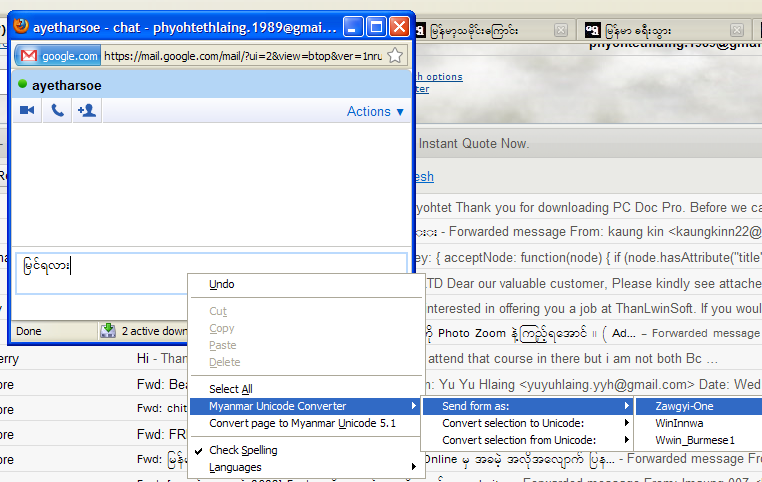
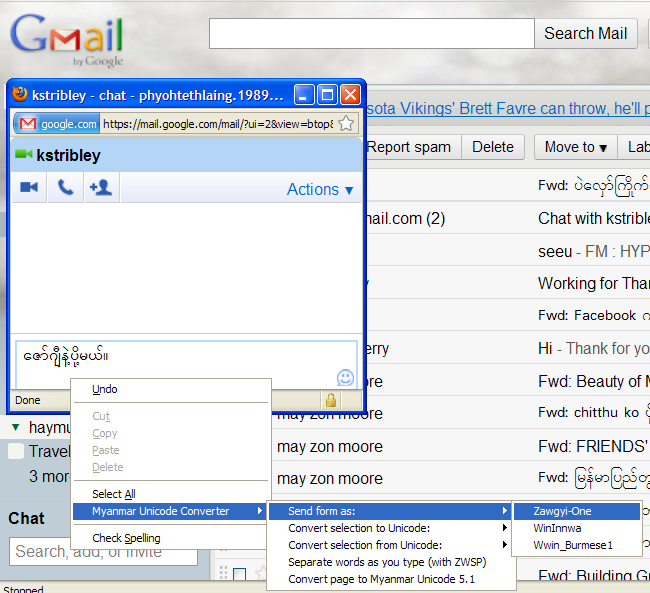
Update docs

diff --git a/firefox-myanmar-converter/docs/index.php b/firefox-myanmar-converter/docs/index.php
@@ -26,6 +26,10 @@ h5 { font-size: 12pt; }
   text-align: center;
 }
 
+p.centre img {
+    padding-bottom: 2em;
+}
+
 .enTranslation {
 	width: 45%;
 	display: inline-block;
@@ -79,7 +83,7 @@ If the wrong font is selected, then the Myanmar text will display wrongly.
 Unicode has many advantages over Zaw Gyi:
 </p>
 <p lang="my" class="myTranslation">
-web page အနေဖြင့် မည်သည့်ဖောင့်ဆိုသည်ကို ပြတ်သားစွာ မဖော်ပြနိုင်သောအခါ ဇော်ဂျီဖောင့် နှင့် ယူနီကုတ်ဖောင့် နှစ်မျိုးလုံးရှိနေခြင်းသည် ပြဿနာများကို ဖြစ်စေပါသည်။ မှားယွင်းသောဖောင့်ကို ရွေးချယ်မိခဲ့မည်ဆိုလျှင်ဖြင့် မြန်မာစာလုံးများ သည်လည်း မှားယွင်းစွာ ဖော်ပြနေပါလိမ့်မည်။ ယူနီကုတ်တွင် ဇော်ဂျီထက်သာလွန်သော အကျိုးကျေးဇူးများရှိပေသည်။
+ဇော်ဂျီဖောင့် နှင့် ယူနီကုတ်ဖောင့် နှစ်မျိုးလုံးရှိနေခြင်းသည် web page အနေဖြင့် မည်သည့်ဖောင့်ဆိုသည်ကို ပြတ်သားစွာ မဖော်ပြနိုင်သော ပြဿနာများကို ဖြစ်စေနိုင်ပါသည်။ မှားယွင်းသောဖောင့်ကို ရွေးချယ်မိခဲ့မည်ဆိုလျှင်ဖြင့် မြန်မာစာလုံးများ သည်လည်း မှားယွင်းစွာ ဖော်ပြနေပါလိမ့်မည်။ ယူနီကုတ်တွင် ဇော်ဂျီထက်သာလွန်သော အကျိုးကျေးဇူးများရှိပေသည်။
 </p>
 <ul class="enTranslation">
 <li>Unicode has only one spelling for a Myanmar word, Zaw Gyi can have multiple spellings for the same word.</li>
@@ -117,8 +121,6 @@ The Myanmar text will display wrongly like this:
 <p class="centre">
 <img src="images/beforeConversion.png" />
 </p>
-<br></br>
-<br></br>
 
 <p class="enTranslation">
 Select Tools/Myanmar Converter from the menu.
@@ -129,8 +131,6 @@ Select Tools/Myanmar Converter from the menu.
 <p class="centre">
 <img src="images/state1.png" alt="Ubuntu Software Center/Myanmar"/>
 </p>
-<br></br>
-<br></br>
 
 <p class="enTranslation">
 The Myanmar Converter Options dialog should appear. You can choose to match the Hostname exactly or with a suffix. The Pathname can also be match exactly or with a prefix. Check the Enable conversion for Pattern check box and click the Add button.
@@ -140,35 +140,70 @@ The Myanmar Converter Options dialog should appear. You can choose to match the 
 <p  class="centre">
 <img src="images/state2.png" />
 </p>
-<br></br>
-<br></br>
 
 <p class="enTranslation">Add more entries as required. Click the OK button when finished.</p>
 <p lang="my" class="myTranslation">လိုအပ်သောအခြား အချက်အလက်များကို ပေါင်းထည့်ပါ။ အားလုံးပြည့်စုံပြီးသည့်နောက် OK ဆိုသည့်ခလုပ်ကို ပါ။</p> 
 <p  class="centre">
 <img src="images/state3.png" />
 </p>
-<br></br>
-<br></br>
 
 <p class="enTranslation">Reload the web page and the Myanmar text should display correctly.</p>
 <p lang="my" class="myTranslation">web page ကို reload ပြန်လုပ်ခိုင်းပြီးလျှင်ဖြင့် မြန်မာစာလုံးများသည် တိကျမှန်ကန်စွာ ထွက်ပေါ်လာပါလိမ့်မည်။</p>
 <p  class="centre">
 <img src="images/afterConversion.png" />
 </p>
-<br></br>
-<br></br>
 
 <p class="enTranslation">
 It is also possible to send Myanmar text to people using Zawgyi or other fonts from within a web page such as Gmail or Facebook. Select the textarea, right click with the mouse and then choose Myanmar Unicode Converter/Send form as:Zawgyi-One or whichever font is appropriate.
 </p>
 <p lang="my" class="myTranslation">
-ဤတိုးချဲ့အထူးပြုချက်သည် Gmail သို့မဟုတ် Facebook ကဲ့သို့သော web page များတွင် ဇော်ဂျီ သို့မဟုတ် အခြားဖောင့်များ အသုံးပြုနေသော လူများအတွက် မြန်မာစကားလုံးများ ပေးပို့ရန်လည်းပဲ ဖြစ်နိုင်ပါသည်။ စာသားပါရှိသော textarea ကိုမောက်စ်တင်လိုက်ပါ၊ ထို့နောက် မောက်စ်ညာဘက်ကို တချက်ကလစ်လိုက်ပါ၊ ပြီးလျှင်ဖြင့် မြန်မာယူနီကုတ်ပြောင်းလဲခြင်း (Myanmar Unicode Converter) ထဲမှ ဤပုံစံဖြင့်ပို့ပါ- (Send form as:) ကိုရွေးပါ၊ ထို့နောက်ဇော်ဂျီ သို့မဟုတ် သင့်လျော်သောဖောင့်ကို ရွေးလိုက်ပါ။
+ဤတိုးချဲ့အထူးပြုချက်သည် Gmail သို့မဟုတ် Facebook ကဲ့သို့သော web page များတွင် ဇော်ဂျီ သို့မဟုတ် အခြားဖောင့်များ အသုံးပြုနေသော လူများအတွက် မြန်မာစကားလုံးများ ပေးပို့ရန်လည်းပဲ ဖြစ်နိုင်ပါသည်။ စာသားပါရှိသော textarea ကိုမောက်စ်တင်လိုက်ပါ၊ ထို့နောက် မောက်စ်ညာဘက်ကို ကလစ်လိုက်ပါ၊ ပြီးလျှင် Myanmar Unicode Converter ထဲမှ Send form as:Zawgyi-One သို့မဟုတ် သင့်လျော်သောဖောင့်ကို ရွေးချယ်ပြီး ပေးပို့နိုင်ပါသည်။
 </p>
 <p  class="centre">
 <img src="images/gmail.png" />
 </p>
 
+<h2 class="enTranslation">Myanmar spell-checking</h2>
+<h2 lang="my" class="myTranslation">မြန်မာစာ စာလုံးပေါင်းသတ်ပုံစစ်ဆေးခြင်း</h2>
+<p class="enTranslation">Choose the textarea where you went to spell-check and right click with the mouse. Choose Check Spelling and Languages/ Burmese/Myanmar.</p>
+<p lang="my" class="myTranslation">သင်စစ်ဆေးလိုသော textarea ကိုရွေး၍ မောက်စ်ညာဘက်ကိုကလစ်လိုက်ပါ၊ Check Spelling ကိုအမှန်ခြစ်ပြီး Languages ထဲမှ Burmese/Myanmar ကို အမှန်ခြစ်ပါ။</p>
+<p  class="centre">
+<img src="images/spallCheck1.png" />
+</p>
+
+<p class="enTranslation">
+Myanmar does not usually have spaces between words, but you can automatically insert
+ZWSP instead. Choose <em>Myanmar Unicode Converter/Separate words as you type (with ZWSP)</em> and spell-checking should become correct.
+</p>
+<p lang="my" class="myTranslation">မြန်မာစကားတွင် အများအားဖြင့် စကားလုံးတစ်လုံးနှင့်တစ်လုံးကြားတွင် နေရာလွတ်ချန်ခြင်းမရှိပေ။ သို့သော် သင်သည် သုညအကျယ်အစားထိုးခြင်းကို အလိုအလျောက် ဖြည့်ဆွက်နိုင်ပါသည်။ ထို့ကြောင့် <em>Myanmar Unicode Converter ထဲမှ Separate words as you type (with ZWSP)</em> ကို ထပ်မံရွေးချယ်ပေးရပါမည်။ ထိုမှသာ စာလုံးပေါင်းသတ်ပုံကို မှန်ကန်စွာ ခွဲခြား စစ်ဆေးပေးနိုင်မည် ဖြစ်သည်။
+</p>
+<p  class="centre">
+<img src="images/spallCheck2.png" style="vertical-align: top;"/>
+<img src="images/spallCheck2.1.png" style="vertical-align: top;"/>
+</p>
+
+<p class="enTranslation">
+In the example below, "ဖြားနာသည်", the word "ဖြား" should be spelled "ဖျား", so a red line is shown underneath to show the error. If you right click with the mouse, a list of possible correct words is shown, so you can correct the spelling.
+</p>
+<p lang="my" class="myTranslation">
+အောက်ဖော်ပြပါ ဥပမာ "ဖြားနာသည်" တွင် "ဖျား" ကို "ဖြား" ဟု မှားယွင်း ရေးသားထားပါသည်။ ထို့ကြောင့် မှားယွင်းသောစာလုံးပေါင်း "ဖြား" ကို မျဉ်းအနီသား၍ အမှားပြထားပါမည်။
+ထိုစကားလုံးပေါ်တွင် မောက်စ်၏ညာဘက်ကိုကလစ်လိုက်ပါက ဖြစ်နိုင်ချေရှိသောစကားလုံးအစီအစဉ်တစ်ခု ဖော်ပြပေးပါမည်။ ထို့ကြောင့်သင်သည် စာလုံးပေါင်းကို မှန်ကန်စွာ ပြင်ဆင်ပေးနိုင်ပါသည်။
+</p>
+<p class="centre" >
+<img src="images/spallCheck3.png" style="vertical-align: top;"/>
+<img src="images/spallCheck4.png" style="vertical-align: top;"/>
+<img src="images/spallCheck5.png" style="vertical-align: top;"/>
+</p>
+
+<p class="enTranslation">
+This extension does not understand the meaning of Myanmar words, so it can only check if the spelling of a word may be correct. It cannot tell whether that spelling is actually correct in that particular sentence. In the example below, "ဖျားရောင်း" was typed, but "ဖြားယောင်း" is actually correct. However, both "ဖျား" and "ရောင်း" are correct spellings of words, so the extension does not realize they are wrong in this situation. The same problem occurs with spell-checking in other languages like English as well, so this is not an excuse to avoid checking it yourself.
+</p>
+<p lang="my" class="myTranslation">
+ဤတိုးချဲ့အထူးပြုချက်သည် မြန်မာစကားလုံးများ၏ အနက်အဓိပ္ပာယ်ကို နားမလည်နိုင်ပါ။ ထို့ကြောင့် တိုးချဲ့အထူးပြုချက်သည် စကားလုံးတစ်လုံး၏ စာလုံးပေါင်း မှန်ကန်မှု ရှိ၊ မရှိကိုသာလျှင် စစ်ဆေးနိုင်ပါသည်။ သူသည် သက်ဆိုင်ရာဝါကျအလိုက် မည်သို့စာလုံးပေါင်းရမည်ကို မှန်ကန်စွာ မပြောနိုင်ပေ။ အောက်ပါဥပမာတွင် သွေးဆောင်ဖြားယောင်းသည်ဟု အဓိပ္ပာယ်ရသော "ဖြားယောင်း" ကို "ဖျားရောင်း" ဟုမှားယွင်းရေးသားထားသည်။ သို့သော် "ဖျား" နှင့် "ရောင်း" သည် မှန်ကန်သော စာလုံးပေါင်းရှိသည့် စကားလုံးများဖြစ်ပေသည်။ ထို့ကြောင့် ဤသို့သော အခြေအနေမျိုးတွင် တိုးချဲ့အထူးပြုချက်သည် ထိုစကားလုံးများကို မှာယွင်းသည်ဟု သိနိုင်မည်မဟုတ်ပေ။ စာလုံးပေါင်းသတ်ပုံစစ်ဆေးခြင်းနှင့် ပတ်သတ်၍ English စသည့် အခြားဘာသာစကားများတွင် လည်း တူညီသောပြဿနာများ ဖြစ်ပွားနေပါသည်။ ထိုကြောင့် စာလုံးပေါင်းသတ်ပုံစစ်ဆေးခြင်း ပြီးပြည့်စုံရန် သင်ကိုယ်တိုင်စစ်ဆေးခြင်းသည် ပို၍ကောင်းသောနည်းလမ်းတစ်ခု ဖြစ်သည်ကို သတိပြုရန် လိုပေသည်။
+</p>
+<p  class="centre">
+<img src="images/spallCheck6.png" />
+</p>
 </div>
 </body>
 </html>
